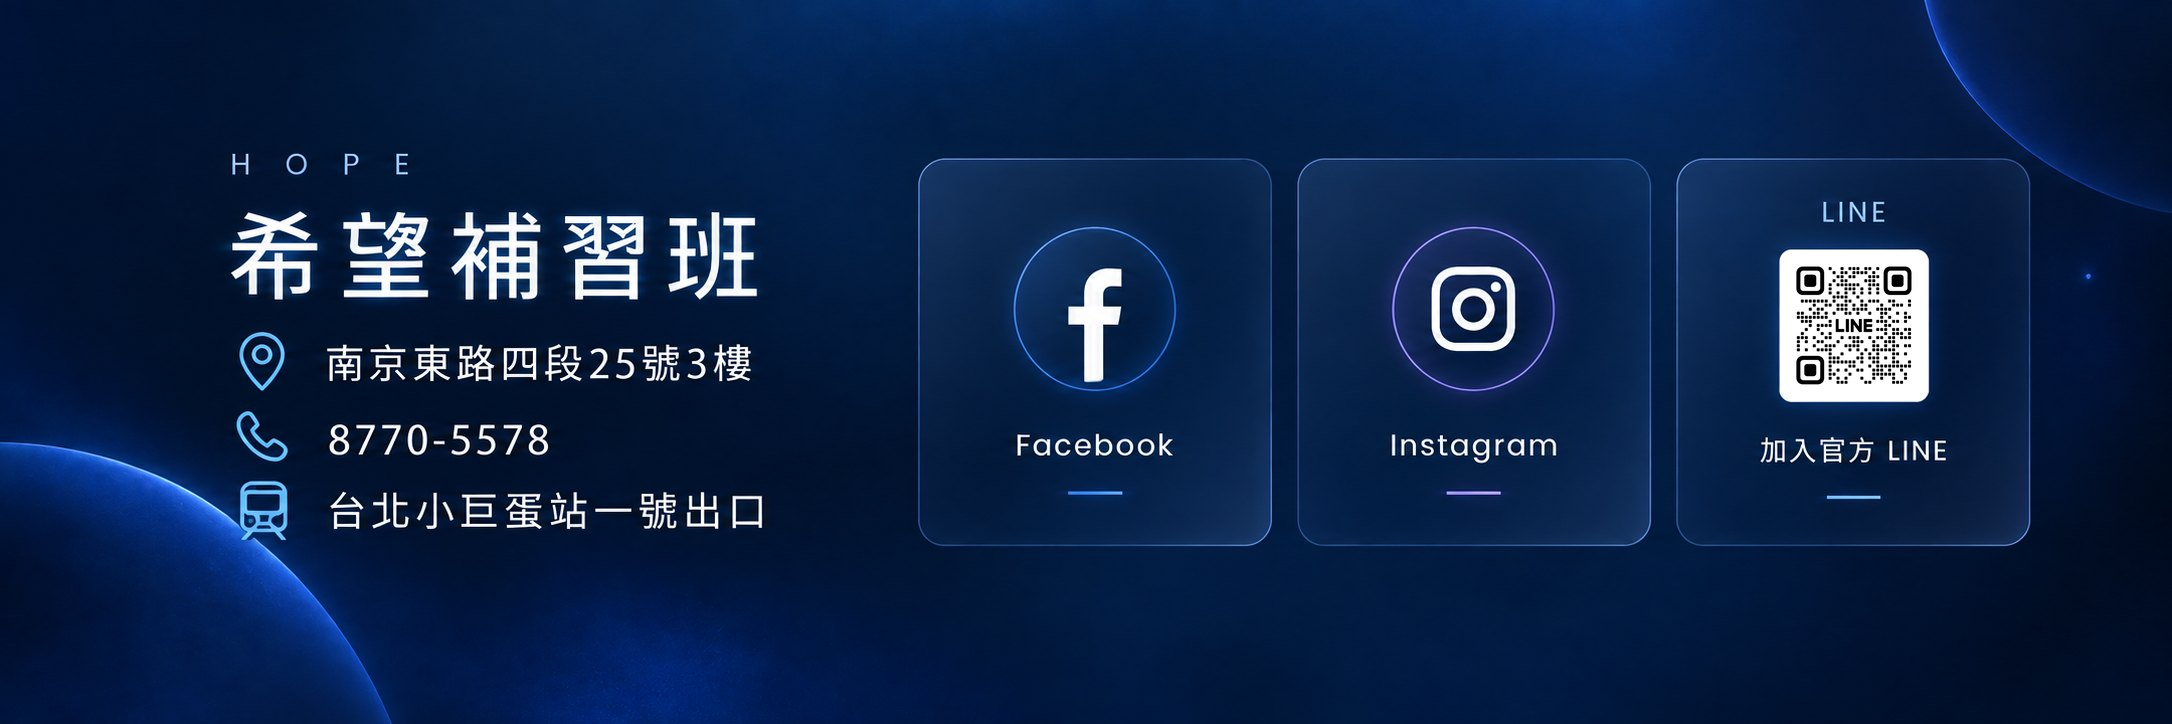
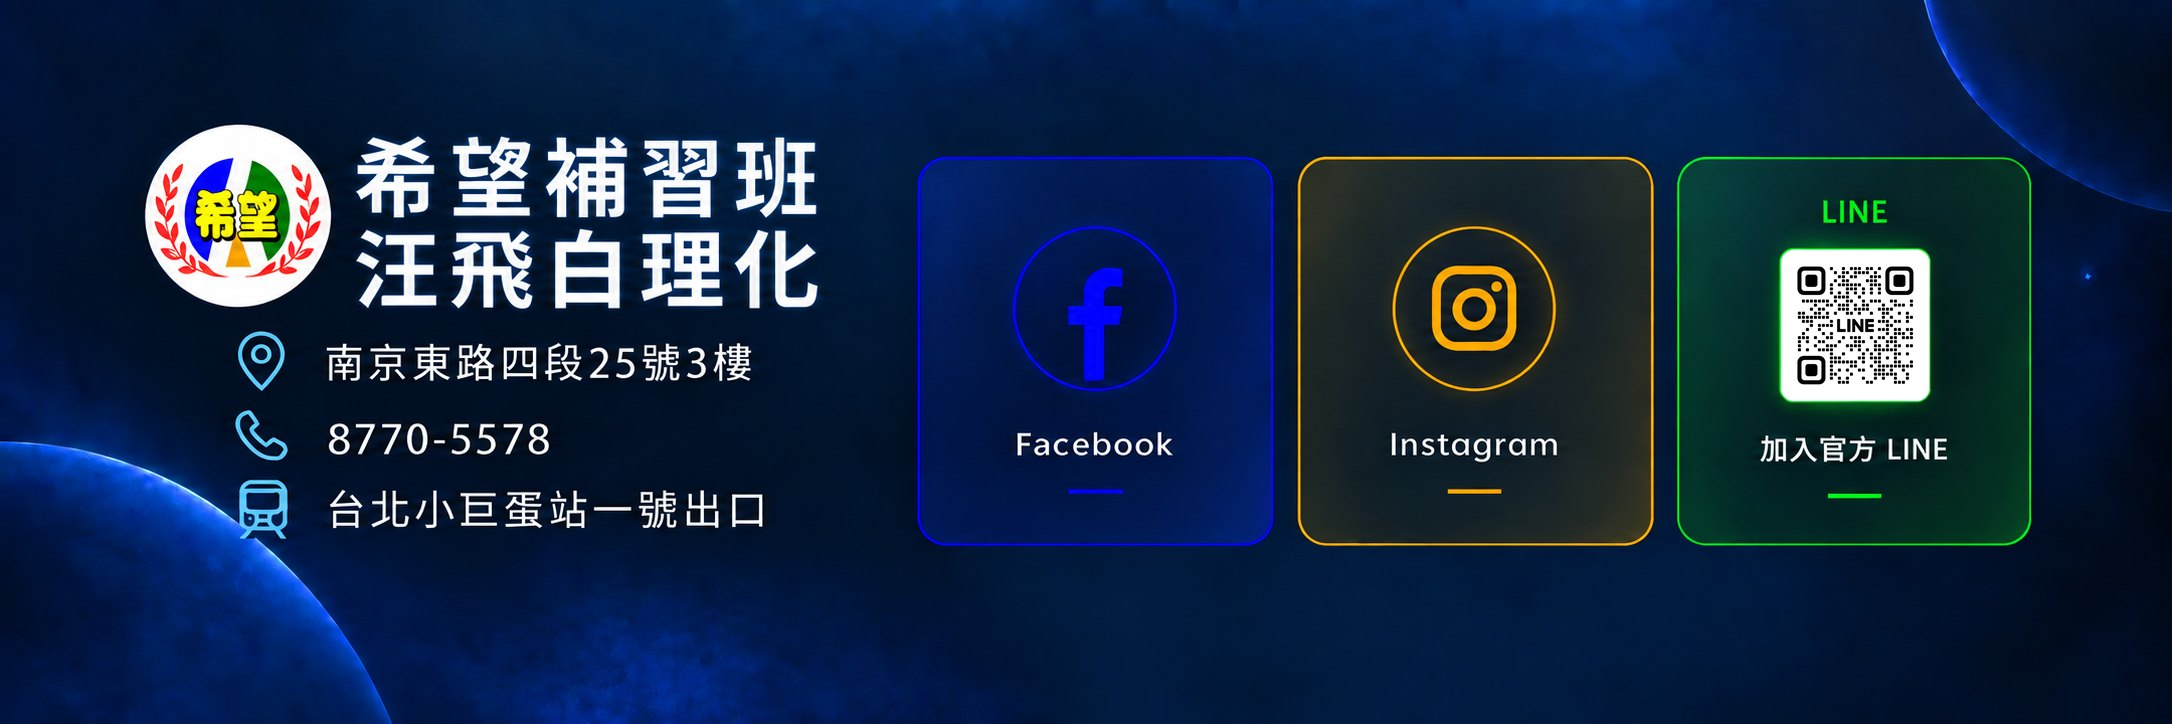
更新首頁聯絡資訊橫幅

diff --git a/index.html b/index.html
@@ -8869,24 +8869,24 @@ document.addEventListener('DOMContentLoaded', function () {
   <div class="container">
     <div class="hc-banner fade-up">
       <div class="hc-full">
-        <img src="聯絡資訊.webp" alt="希望補習班｜南京東路四段25號3樓｜電話 8770-5578｜台北小巨蛋站一號出口｜Facebook、Instagram、官方 LINE" width="2172" height="724" loading="lazy" decoding="async" />
-        <a class="hc-hot is-row" href="https://www.google.com/maps/search/?api=1&amp;query=%E5%8F%B0%E5%8C%97%E5%B8%82%E6%9D%BE%E5%B1%B1%E5%8D%80%E5%8D%97%E4%BA%AC%E6%9D%B1%E8%B7%AF%E5%9B%9B%E6%AE%B525%E8%99%9F" target="_blank" rel="noopener" aria-label="在 Google 地圖打開：南京東路四段25號3樓" style="left:10.75%;top:45.73%;width:24.50%;height:8.55%"></a>
-        <a class="hc-hot is-row" href="tel:+886287705578" aria-label="撥打電話 8770-5578" style="left:10.75%;top:56.67%;width:24.50%;height:8.10%"></a>
-        <a class="hc-hot is-row" href="https://www.google.com/maps/search/?api=1&amp;query=%E5%8F%B0%E5%8C%97%E5%B8%82%E6%9D%BE%E5%B1%B1%E5%8D%80%E5%8D%97%E4%BA%AC%E6%9D%B1%E8%B7%AF%E5%9B%9B%E6%AE%B525%E8%99%9F" target="_blank" rel="noopener" aria-label="交通：台北小巨蛋站一號出口（打開地圖）" style="left:10.75%;top:66.42%;width:24.50%;height:8.55%"></a>
-        <a class="hc-hot is-card" href="https://www.facebook.com/xi.wang.7127/" target="_blank" rel="noopener" aria-label="希望補習班 Facebook" style="left:42.30%;top:22.04%;width:16.20%;height:53.22%"></a>
-        <a class="hc-hot is-card" href="https://page.line.me/745ajzxs" target="_blank" rel="noopener" aria-label="加入希望補習班官方 LINE" style="left:77.25%;top:22.04%;width:16.20%;height:53.22%"></a>
+        <img src="聯絡資訊.webp" alt="希望補習班 · 汪飛白理化｜南京東路四段25號3樓｜電話 8770-5578｜台北小巨蛋站一號出口｜Facebook、Instagram、官方 LINE" width="2172" height="724" loading="lazy" decoding="async" />
+        <a class="hc-hot is-row" href="https://www.google.com/maps/search/?api=1&amp;query=%E5%8F%B0%E5%8C%97%E5%B8%82%E6%9D%BE%E5%B1%B1%E5%8D%80%E5%8D%97%E4%BA%AC%E6%9D%B1%E8%B7%AF%E5%9B%9B%E6%AE%B525%E8%99%9F" target="_blank" rel="noopener" aria-label="在 Google 地圖打開：南京東路四段25號3樓" style="left:9.90%;top:45.58%;width:25.55%;height:9.39%"></a>
+        <a class="hc-hot is-row" href="tel:+886287705578" aria-label="撥打電話 8770-5578" style="left:9.90%;top:55.94%;width:25.55%;height:9.25%"></a>
+        <a class="hc-hot is-row" href="https://www.google.com/maps/search/?api=1&amp;query=%E5%8F%B0%E5%8C%97%E5%B8%82%E6%9D%BE%E5%B1%B1%E5%8D%80%E5%8D%97%E4%BA%AC%E6%9D%B1%E8%B7%AF%E5%9B%9B%E6%AE%B525%E8%99%9F" target="_blank" rel="noopener" aria-label="交通：台北小巨蛋站一號出口（打開地圖）" style="left:9.90%;top:66.30%;width:25.55%;height:9.39%"></a>
+        <a class="hc-hot is-card" href="https://www.facebook.com/xi.wang.7127/" target="_blank" rel="noopener" aria-label="希望補習班 Facebook" style="left:42.59%;top:20.72%;width:15.88%;height:54.56%"></a>
+        <a class="hc-hot is-card" href="https://page.line.me/745ajzxs" target="_blank" rel="noopener" aria-label="加入希望補習班官方 LINE" style="left:76.66%;top:20.72%;width:15.42%;height:54.56%"></a>
       </div>
       <div class="hc-mobile" aria-hidden="false">
         <div class="hc-part">
-          <img src="聯絡資訊-左.webp" alt="希望補習班 南京東路四段25號3樓 電話 8770-5578 台北小巨蛋站一號出口" width="597" height="434" loading="lazy" decoding="async" />
-        <a class="hc-hot is-row" href="https://www.google.com/maps/search/?api=1&amp;query=%E5%8F%B0%E5%8C%97%E5%B8%82%E6%9D%BE%E5%B1%B1%E5%8D%80%E5%8D%97%E4%BA%AC%E6%9D%B1%E8%B7%AF%E5%9B%9B%E6%AE%B525%E8%99%9F" target="_blank" rel="noopener" aria-label="在 Google 地圖打開：南京東路四段25號3樓" style="left:4.55%;top:46.25%;width:89.09%;height:14.25%"></a>
-        <a class="hc-hot is-row" href="tel:+886287705578" aria-label="撥打電話 8770-5578" style="left:4.55%;top:64.50%;width:89.09%;height:13.50%"></a>
-        <a class="hc-hot is-row" href="https://www.google.com/maps/search/?api=1&amp;query=%E5%8F%B0%E5%8C%97%E5%B8%82%E6%9D%BE%E5%B1%B1%E5%8D%80%E5%8D%97%E4%BA%AC%E6%9D%B1%E8%B7%AF%E5%9B%9B%E6%AE%B525%E8%99%9F" target="_blank" rel="noopener" aria-label="交通：台北小巨蛋站一號出口（打開地圖）" style="left:4.55%;top:80.75%;width:89.09%;height:14.25%"></a>
+          <img src="聯絡資訊-左.webp" alt="希望補習班 · 汪飛白理化 南京東路四段25號3樓 電話 8770-5578 台北小巨蛋站一號出口" width="740" height="504" loading="lazy" decoding="async" />
+        <a class="hc-hot is-row" href="https://www.google.com/maps/search/?api=1&amp;query=%E5%8F%B0%E5%8C%97%E5%B8%82%E6%9D%BE%E5%B1%B1%E5%8D%80%E5%8D%97%E4%BA%AC%E6%9D%B1%E8%B7%AF%E5%9B%9B%E6%AE%B525%E8%99%9F" target="_blank" rel="noopener" aria-label="在 Google 地圖打開：南京東路四段25號3樓" style="left:10.14%;top:48.02%;width:75.00%;height:13.49%"></a>
+        <a class="hc-hot is-row" href="tel:+886287705578" aria-label="撥打電話 8770-5578" style="left:10.14%;top:62.90%;width:75.00%;height:13.29%"></a>
+        <a class="hc-hot is-row" href="https://www.google.com/maps/search/?api=1&amp;query=%E5%8F%B0%E5%8C%97%E5%B8%82%E6%9D%BE%E5%B1%B1%E5%8D%80%E5%8D%97%E4%BA%AC%E6%9D%B1%E8%B7%AF%E5%9B%9B%E6%AE%B525%E8%99%9F" target="_blank" rel="noopener" aria-label="交通：台北小巨蛋站一號出口（打開地圖）" style="left:10.14%;top:77.78%;width:75.00%;height:13.49%"></a>
         </div>
         <div class="hc-part">
-          <img src="聯絡資訊-右.webp" alt="Facebook、Instagram、加入官方 LINE" width="1146" height="413" loading="lazy" decoding="async" />
-        <a class="hc-hot is-card" href="https://www.facebook.com/xi.wang.7127/" target="_blank" rel="noopener" aria-label="希望補習班 Facebook" style="left:1.52%;top:3.16%;width:30.71%;height:93.42%"></a>
-        <a class="hc-hot is-card" href="https://page.line.me/745ajzxs" target="_blank" rel="noopener" aria-label="加入希望補習班官方 LINE" style="left:67.77%;top:3.16%;width:30.71%;height:93.42%"></a>
+          <img src="聯絡資訊-右.webp" alt="Facebook、Instagram、加入官方 LINE" width="1110" height="425" loading="lazy" decoding="async" />
+        <a class="hc-hot is-card" href="https://www.facebook.com/xi.wang.7127/" target="_blank" rel="noopener" aria-label="希望補習班 Facebook" style="left:2.25%;top:3.53%;width:31.08%;height:92.94%"></a>
+        <a class="hc-hot is-card" href="https://page.line.me/745ajzxs" target="_blank" rel="noopener" aria-label="加入希望補習班官方 LINE" style="left:68.92%;top:3.53%;width:30.18%;height:92.94%"></a>
         </div>
       </div>
     </div>
